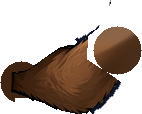
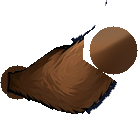
Stamp pose: round shoulder, no dark patch over the lowered arm
Claude-Session: https://claude.ai/code/session_01MKsZvYnMVUP17zjeeAuUE4

diff --git a/rules/smudge_stamp_cut.py b/rules/smudge_stamp_cut.py
@@ -25,7 +25,7 @@ HEAD = [(262,5),(282,5),(302,12),(325,26),(345,40),(362,56),(374,78),(382,102),(
         (161,177),(158,160),(159,140),(164,122),(175,104),(183,86),(185,76),(177,66),(166,56),(169,45),(190,34),(215,22),(240,10)]
 ARM = [(336,255),(352,258),(380,238),(402,225),(420,217),(434,190),(438,165),(453,148),(478,143),(502,163),(508,215),(508,278),
        (462,283),(444,289),(427,301),(400,301),(360,293),(336,287)]
-OVER = [(300,200),(410,214),(426,232),(386,247),(353,263),(341,263),(341,293),(318,293),(318,263),(300,263)]
+OVER = [(300,200),(410,214),(426,232),(386,247),(353,263),(341,263),(341,281),(318,281),(318,263),(300,263)]
 HAND = [(413,224),(424,215),(436,190),(438,165),(453,148),(478,143),(502,163),(508,215),(508,278),(462,283),(440,265),(412,247)]
 HEAD_PIVOT, ARM_PIVOT, TAIL_PIVOT, WRIST = (275, 212), (346, 270), (445, 425), (442, 238)
 
@@ -96,7 +96,11 @@ def run():
     arm = ndimage.binary_closing(arm, iterations=2) & ap
     piece = a.copy(); piece[~arm] = 0
     # a round fur shoulder under the cloak so no gap opens when the arm turns
-    disc = ((xx - ARM_PIVOT[0]) ** 2 + (yy - ARM_PIVOT[1]) ** 2 <= 21 ** 2) & ~arm & ((yy <= 285) | (xx < 340))
+    # a round shoulder: everything behind the joint is trimmed to a circle and filled with fur, so the
+    # arm shows a smooth cap (not the square end of the cut) when it swings down
+    R = 17; rr = (xx - ARM_PIVOT[0]) ** 2 + (yy - ARM_PIVOT[1]) ** 2 <= R * R
+    piece[(xx < ARM_PIVOT[0]) & ~rr] = 0
+    disc = rr & (piece[..., 3] == 0) & ~((xx < 336) & (yy > 281))
     furfill = cv2.inpaint(np.ascontiguousarray(piece[..., :3]), (~(arm & ~dark)).astype(np.uint8) * 255, 4, cv2.INPAINT_TELEA)
     piece[..., :3][disc] = furfill[disc]; piece[..., 3][disc] = 255
     parts.append(dict(name='arm', mode='front', pivot=list(ARM_PIVOT), offset=crop_save(piece, 'arm')))
@@ -124,8 +128,9 @@ def run():
             if ok: base[y, x, :3] = base[sy, x, :3]
             else: miss[y, x] = True
             base[y, x, 3] = 255
+    miss |= behind & (xx < 352)            # right at the shoulder, grow the chest and strap in sideways (not the lining from below)
     if miss.any(): base[..., :3] = cv2.inpaint(np.ascontiguousarray(base[..., :3]), miss.astype(np.uint8) * 255, 4, cv2.INPAINT_TELEA)
-    blur = cv2.GaussianBlur(base[..., :3], (0, 0), 2.2); base[..., :3][behind] = (blur[behind] * 0.9).astype(np.uint8)
+    blur = cv2.GaussianBlur(base[..., :3], (0, 0), 3.6); base[..., :3][behind] = (blur[behind] * 0.9).astype(np.uint8)
     base[..., 3][hole & ~behind] = 0
     ink = behind & ndimage.binary_dilation(hole & ~behind, iterations=3)          # ink line down the cloak's new edge
     base[..., :3][ink] = (16, 22, 42)
